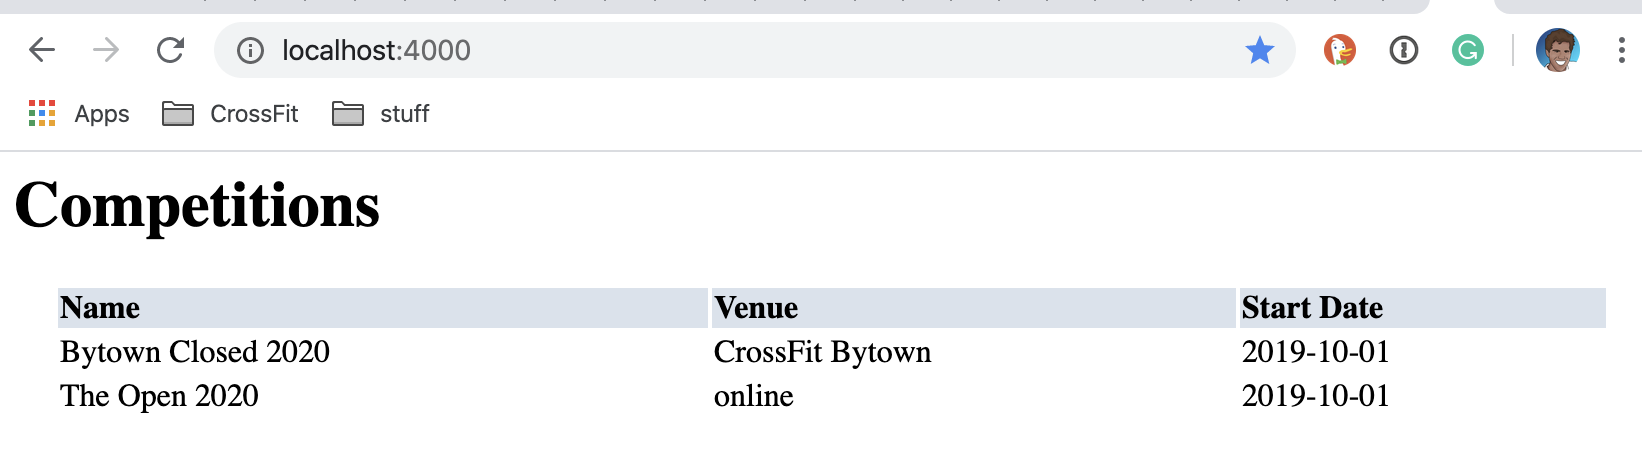
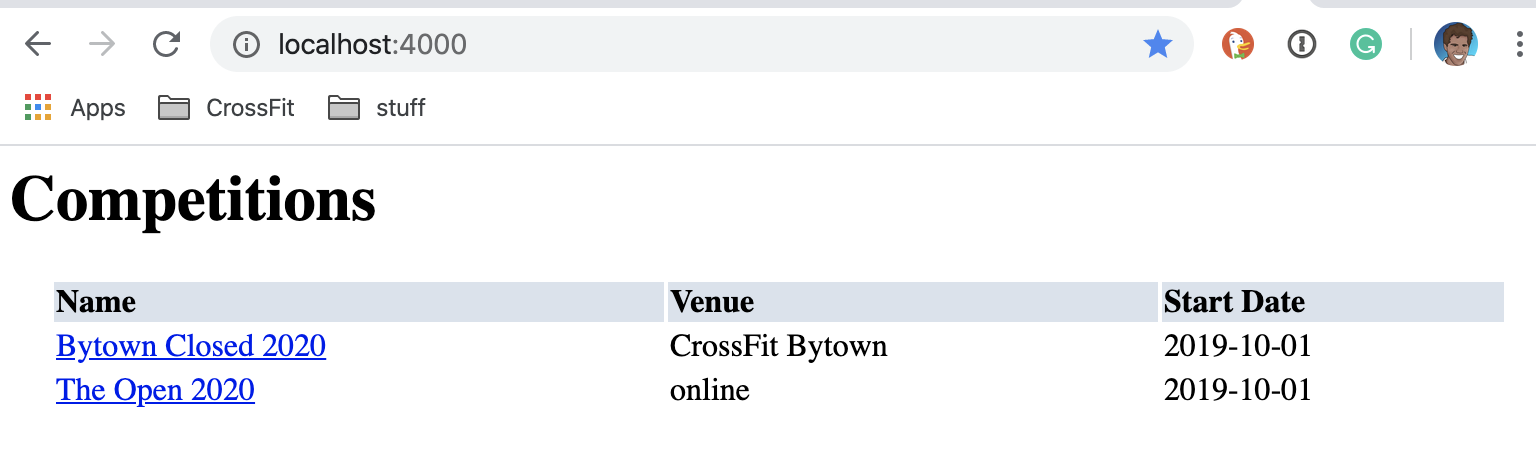
Add a competitions page showing registered athletes

diff --git a/public/competition.php b/public/competition.php
@@ -1,0 +1,68 @@
+<?php
+
+
+if (!isset($_GET["id"])) {
+    header('Location: index.php');
+    exit;
+}
+
+$competitionId = $_GET["id"];
+$dbconn = pg_connect("host=localhost port=5432 dbname=leaderboard");
+$sql = 'SELECT * FROM competitions WHERE identifier = $1';
+$result = pg_query_params($dbconn, $sql, [$competitionId]);
+$data = pg_fetch_all($result);
+
+if (empty($data)) {
+  $competition = null;
+  $athletes = [];
+} else {
+  $competition = $data[0];
+  $sql = 'SELECT athletes.name,
+                 registrations.gender,
+                 registrations.age
+          FROM registrations
+          INNER JOIN athletes ON athletes.id = registrations.athlete_id
+          WHERE registrations.competition_id = $1
+          ORDER BY athletes.name';
+  $result = pg_query_params($dbconn, $sql, [$competition["id"]]);
+  $athletes = pg_fetch_all($result);
+}
+
+if (empty($competition)) {
+  ?><h1>Unknown competiton <?php echo $competitionId; ?></h1><?php
+} elseif (empty($athletes)) {
+  ?><h1>No athletes registered for <?php echo $competition["name"]; ?></h1><?php
+} else {
+  ?>
+    <style>
+    .table-container {
+      margin: 20px;
+    }
+    table {
+      width: 100%;
+    }
+    table tr th {
+      text-align: left;
+      background-color: #D9E2EC;
+    }
+    </style>
+
+    <h1><?php echo $competition["name"]; ?></h1>
+    <div class="table-container">
+      <table>
+        <tr>
+          <th>Name</th>
+          <th>Gender</th>
+          <th>Age</th>
+        </tr>
+        <?php foreach ($athletes as $row) {?>
+          <tr>
+            <td><?php echo $row["name"] ?></td>
+            <td><?php echo $row["gender"] ?></td>
+            <td><?php echo $row["age"] ?></td>
+          </tr>
+        <?php } ?>
+      </table>
+    </div>
+  <?php
+}

diff --git a/public/index.php b/public/index.php
@@ -29,7 +29,7 @@ table tr th {
     </tr>
     <?php foreach ($data as $row) {?>
       <tr>
-        <td><?php echo $row["name"] ?></td>
+        <td><a href="competition.php?id=<?php echo $row["identifier"] ?>"><?php echo $row["name"] ?></a></td>
         <td><?php echo $row["venue"] ?></td>
         <td><?php echo $row["start_date"] ?></td>
       </tr>

diff --git a/README.md b/README.md
@@ -144,9 +144,18 @@ The output should look similar to
 
 ![Home Page](assets/homepage.png)
 
+If you click on a competition, you will see the registered athletes.
+
+![Competition Summary](assets/competitions.png)
+
+Or, if you no athletes are registered yet.
+
+![No Athletes](assets/competition_no_athletes.png)
+
+
 ## SQL Examples
 
-Now we can test out our databse in the postgres console.
+We also explore our database from the postgres console.
 
 ```bash
 psql -d leaderboard
